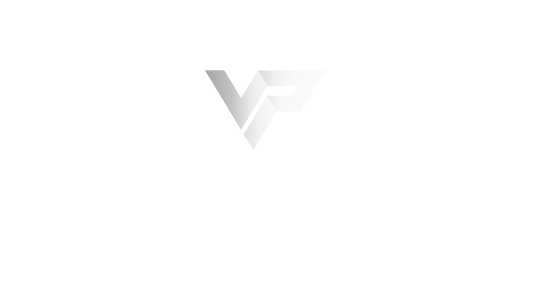
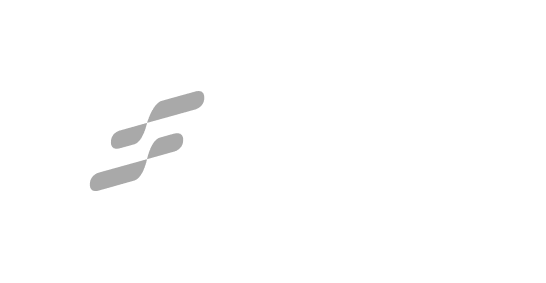
add partners

Changed region(s): [[0.1557, 0.2261, 0.467, 0.6784], [0.467, 0.2544, 0.4982, 0.2827]]

diff --git a/src/pages/home/ourpartners/index.js b/src/pages/home/ourpartners/index.js
@@ -3,12 +3,10 @@ import React from "react";
 import { useGlobalStateContext } from "../../../context";
 import styles from "./index.module.css";
 
-const partners = [
-  1, 2, 3, 4, 5, 6, 7, 8, 9, 10, 11, 12, 13, 14, 15, 16, 17, 18, 19, 20, 21, 22,
-  23, 24, 25, 26, 27, 28, 29, 30, 31, 32, 33, 34, 35, 36, 37, 38, 39, 40,
-];
-
 function Partners({ isMobile }) {
+  const partners = [];
+  for (let i = 1; i <= 48; i++) partners.push(i);
+
   return (
     <div className={styles.partners}>
       {partners.map((partner) => {
